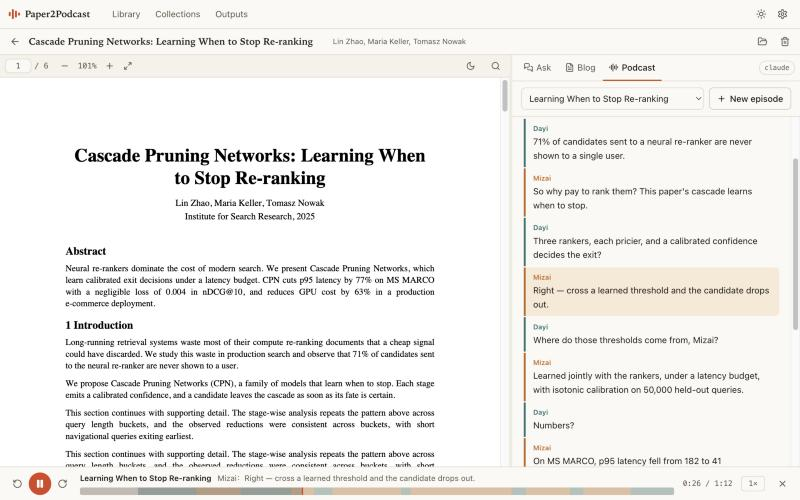
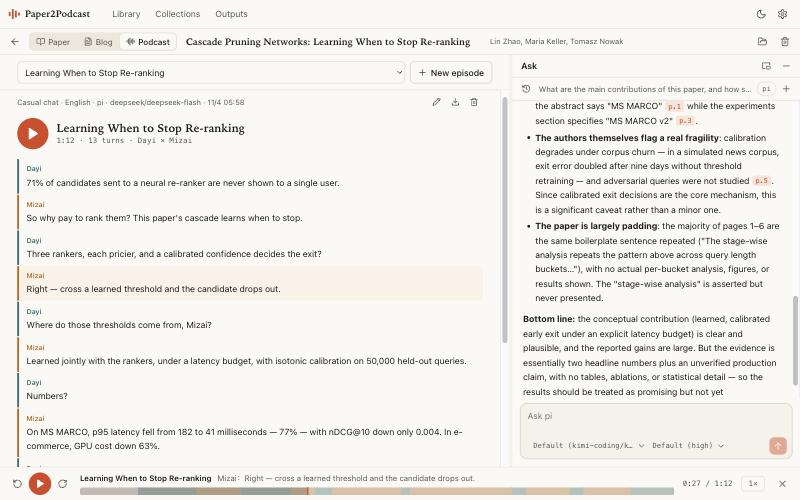
Document the workspace and chat sessions
Both READMEs and their screenshots now show the main area views, the
floating chat panel, per-paper history, and where the harness, model and
thinking options come from.

diff --git a/README.md b/README.md
@@ -10,15 +10,15 @@ English | [简体中文](README.zh-CN.md)
 
 There are more papers than time to read them, and a PDF is no use on your commute. Paper2Podcast is a paper workbench that runs on your own computer. Drop in a PDF or an arXiv link, ask AI questions as you read, then generate a two-host podcast and an illustrated blog post. Everything is stored as plain files in your vault. There is no account to create, and the tool has no cloud service of its own.
 
-![An episode playing: the paper on the left, a synced transcript on the right, and a timeline colored by host at the bottom](docs/images/podcast-player.png)
+![An episode playing in the main area with a synced transcript, chat in the sidebar, and a timeline colored by host at the bottom](docs/images/podcast-player.png)
 
 ## Highlights
 
 - 🎙 **Papers become podcasts.** An agent writes a script in the language, style and length you choose. You can edit it turn by turn, then send it to Doubao for speech synthesis. The transcript follows along during playback, and clicking any line jumps to it.
-- 💬 **Ask as you read.** Select a passage in the PDF to ask about it, explain it or translate it. Answers draw on the full text and cite page numbers, and clicking a citation takes you to that page.
+- 💬 **Ask as you read.** Select a passage in the PDF to ask about it, explain it or translate it. Answers draw on the full text and cite page numbers, and clicking a citation takes you to that page. Each paper keeps its own chat history.
 - 🖼 **Blog posts with the paper's figures.** Captioned figures are cropped automatically, and the agent picks which ones to use. Exported Markdown embeds its images, so one file is all you need to publish.
 - 📚 **Multi-paper collections.** Pick a few papers and make a weekly digest or a mini literature review. Citations show which paper and page each claim came from.
-- 🔌 **Bring your own agent.** Switch between Claude Code, Codex and pi, using each one's existing login.
+- 🔌 **Bring your own agent.** Start a chat with Claude Code, Codex or pi, whichever is on your machine, using its existing login. Pick from the models it reports and set how hard it thinks.
 - 🌐 **English and Chinese.** The interface follows your browser's language, or you can set it in Settings. Generated content can be in English, Chinese or Japanese.
 - 🔒 **Local-first.** The server listens only on your machine, and agents run with restricted permissions to reduce the risk from malicious instructions hidden in a paper. See [Security](#security).
 
@@ -50,11 +50,29 @@ To use the `paper2podcast` command from any directory, also run `npm link`.
 
 ## Features
 
-### Reading and questions
+### Workspace
+
+The main area switches between the paper, its blog posts and its podcast episodes. The PDF keeps its place when you switch away. Chat stays alongside all of them, and you can dock it to the side, float it as a panel you can drag and resize, or hide it behind a button.
+
+PDFs are rendered by pdf.js, with search, zoom and a night mode. Math is displayed with KaTeX.
+
+### Chat
 
 ![After selecting text in the PDF, a menu offers to ask, explain or translate, next to an answer with page citations](docs/images/ask-ai.png)
 
-PDFs are rendered by pdf.js, with search, zoom and a night mode. Math is displayed with KaTeX.
+Conversations are kept per paper. Open the history to return to an earlier one or delete it. An existing single conversation from an earlier version becomes a session automatically.
+
+![A floating chat panel over the paper, starting a new chat with a choice of harness, model and thinking level](docs/images/chat-float.png)
+
+| | When you can change it | Where the options come from |
+|---|---|---|
+| Harness | Only when creating a chat | The CLIs found on your machine |
+| Model | Any time | `codex debug models`, `pi --list-models`, and the aliases in `claude --help` |
+| Thinking level | Any time | The CLI's help or model list, per model where it reports them |
+
+Claude Code has no command for listing models, so only the aliases named in its help appear, along with anything in your settings' `model` and `availableModels`.
+
+The agent settings choose what blog posts and podcast scripts use, and the defaults for new chats.
 
 ### Podcasts
 
@@ -111,7 +129,7 @@ The vault lives in `~/Paper2Podcast` by default. Its contents remain usable with
     paper.pdf
     meta.json         Title, authors and so on; safe to edit by hand
     text.json         Extracted text, page by page
-    chat.json         Question history
+    chats/<id>.json   One file per conversation
     figures/          Extracted figures
     blogs/<id>.md     Front matter + Markdown, with figures as relative paths
     podcasts/<id>/    podcast.json (script and timeline), audio.mp3
@@ -161,7 +179,7 @@ If you find a security issue, please contact the maintainers privately instead o
   - Only captions in the style of `Figure N:` are detected, and tables aren't extracted. You can remove a bad crop in the blog form.
   - Agents can't see the images, so they choose and describe figures from their captions alone.
   - Extraction relies on the optional `@napi-rs/canvas` package. Where it isn't supported, blog posts have no figures.
-- **Collections:** agent scripts only, with no question answering.
+- **Collections:** agent scripts only, with no chat.
 
 AI-generated content can be wrong, so check it against the source before publishing. Before reusing a paper's text or figures, also confirm what its license allows.
 
